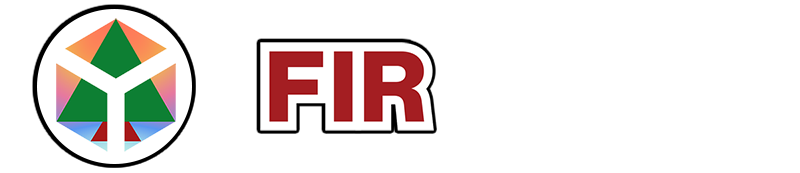
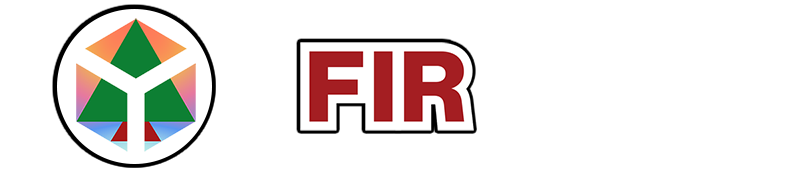
readme additions, image centering

Changed region(s): [[0.0312, 0.0, 0.2812, 0.9827], [0.3125, 0.2023, 0.5938, 0.7803]]

diff --git a/readme.md b/readme.md
@@ -1,11 +1,12 @@
 
-![FIR](https://i.imgur.com/Ef5zbt6.png)
+![FIR](img/banner.png)
 
 ---
 
 * [Introduction](#introduction)
 * [Getting started](#getting-started)
 * [Examples](#examples)
+* [Acknowledgements](#acknowledgements)
 
 <a name="introduction"></a>
 # Introduction
@@ -18,7 +19,7 @@ The Haskell type system helps in verifying programs at compile time, especially 
 <a name="getting-started"></a>
 # Getting started
 
-See [getting started](getting_started.md) for help on getting started, including:
+FIR requires GHC >= 8.6. See [getting started](getting_started.md) for help on getting started, including:
   * installation instructions,
   * a simple vertex shader example,
   * how to compile and debug shaders, using built-in functionality as well as SPIR-V tools.
@@ -28,7 +29,22 @@ The haddock documentation is also worth perusing for specialised in-depth explan
 <a name="examples"></a>
 # Examples
 
-![FullPipeline](img/full_pipeline_small.png) ![Compute](img/compute_small.png) ![Texture](img/texture_small.png) ![Offscreen](img/offscreen_small.png) ![Bezier](img/bezier_small.png)
+<div align="center">
+![FullPipeline](img/full_pipeline_small.png) ![Compute](img/compute_small.png) ![Texture](img/texture_small.png) ![JuliaSet](img/julia_small.png) ![Offscreen](img/offscreen_small.png) ![Bezier](img/bezier_small.png)
+</div>
 
 Some simple examples are included in the **fir-examples** subdirectory.
 See the [examples readme](fir-examples/readme.md) for installation instructions and further information.
+
+<a name="acknowledgements"></a>
+# Acknowledgements
+
+I extend my thanks to:
+* **Baldur Blöndal**, for helping me get started with this project, indulging my silly questions, and pointing me to the paper [*Combining Deep and Shallow Embedding for EDSL*](http://www.cse.chalmers.se/~josefs/publications/TFP12.pdf) by Josef Svenningsson and Emil Axelsson, which was used in the design of the AST.
+* **Callan McGill**, for encouraging me, spending long hours helping to debug the library (and getting it working on Linux), and generally keeping me sane.
+* **Oliver Charles**, for inspiring me to take on this project by streaming his efforts at [porting Quake 3 to Haskell using Vulkan](https://github.com/ocharles/zero-to-quake-3). This was invaluable in helping me get started with using Vulkan in Haskell.
+* **Artem Chirkin**, for his well-designed [vulkan-api](https://github.com/achirkin/vulkan) library.
+* **Schell Scivally**, for patiently explaining his [ixshader library](https://hackage.haskell.org/package/ixshader).
+* **Conor McBride**, whose paper [*Kleisli arrows of outrageous fortune*](https://personal.cis.strath.ac.uk/conor.mcbride/Kleisli.pdf) forms the basis of the implementation of indexed monads which enabled the approach taken in FIR.
+* **The GHC developers**, for their tireless work on improving Haskell, tremendously helpful advice, and for continually keeping me excited in the future of programming.
+* **Epic Games**, for giving me a huge boost by supporting me through their [MegaGrants program](https://www.unrealengine.com/megagrants).

diff --git a/getting_started.md b/getting_started.md
@@ -29,7 +29,7 @@ Refer to the examples page for further information about the examples, including
 <a name="simple-shader"></a>
 ## Writing a simple shader
 To write a shader using FIR, begin by importing the module `FIR`.
-Additional functionality is provided by the modules `FIR.Linear` (vector and matrices),
+Additional functionality is provided by the modules `FIR.Linear` (vectors and matrices),
 `FIR.Quaternion` (quaternions) and `FIR.Labels` (optional imperative-like syntax using *OverloadedLabels*).
 
 The important types are:
@@ -123,6 +123,7 @@ Bind
        └╴%1
 ```
 
+The AST pretty-printing is performed using the [tree-view](http://hackage.haskell.org/package/tree-view) package.
 
 <a name="inlining"></a>
 ## Controlling inlining
@@ -179,10 +180,14 @@ Khronos provides many useful tools to deal with SPIR-V, which are included in th
   - `spirv-dis sourceProg.spv -o sourceProg.spv-asm` to create an editable disassembly.
 * spirv-as: re-assemble SPIR-V disassembly:
   - `spirv-as dissassembly.spv-asm -o reassembled.spv`.
-* spirv-cfg: create a control flow graph, output as a DOT graph:
-  - `spirv-cfg sourceProv.spv -o sourceProgCFG.dot` to create the DOT graph,
-  - `dot -Tpdf sourceProgCFG.dot -o sourceProgCFG.pdf` to render the graph into a PDF (requires GraphViz `dot` executable).
 * spirv-opt: optimise a SPIR-V file:
   - `spirv-opt sourceProg.spv -O -o sourceProg_opt.spv` to optimise for performance,
   - `spirv-opt sourceProg.spv -Os -o sourceProg_opt.spv` to optimise size of SPIR-V binary.
 * spirv-cross: cross-compile a SPIR-V file to another shading language (GLSL/HLSL/Metal).
+* spirv-cfg: create a control flow graph, output as a DOT graph:
+  - `spirv-cfg sourceProv.spv -o sourceProgCFG.dot` to create the DOT graph,
+  - `dot -Tpdf sourceProgCFG.dot -o sourceProgCFG.pdf` to render the graph into a PDF (requires GraphViz `dot` executable).
+
+<div align="center">
+![Control flow graph of compute shader logo example](img/compute_cfg.png)
+</div>

diff --git a/fir-examples/readme.md b/fir-examples/readme.md
@@ -6,6 +6,7 @@
   - [Full graphics pipeline](#fullpipeline)
   - [Compute shader: FIR logo](#compute)
   - [Texture sampling](#texture)
+  - [Julia set](#julia)
   - [Offscreen rendering](#offscreen)
   - [Bézier curves](#bezier)
 
@@ -28,31 +29,49 @@ where *Example* is any one of the [examples](#overview).
 
 <a name="fullpipeline"></a>
 ### Full graphics pipeline
-![FullPipeline](../img/fullpipeline.png)
+<div align="center">
+![FullPipeline](../img/full_pipeline.png)
+</div>
 
 A graphics pipeline containing all shader stages.
 
 <a name="compute"></a>
 ### Compute shader: FIR logo
+<div align="center">
 ![Compute](../img/compute.png)
+</div>
 
 Rendering the FIR logo using simple ray tracing in a compute shader.
 
 <a name="texture"></a>
 ### Texture sampling
+<div align="center">
 ![Texture](../img/texture.png)
+</div>
 
 Demonstrates how to sample a texture.
 
+<a name="julia"></a>
+### Julia set
+<div align="center">
+![JuliaSet](../img/julia.png)
+</div>
+
+Interactive Julia set rendering, computed within a fragment shader.
+
 <a name="offscreen"></a>
 ### Offscreen rendering
+<div align="center">
 ![Offscreen](../img/offscreen.png)
+</div>
 
 Offscreen rendering of a single frame.
 
 <a name="bezier"></a>
 ### Bézier curves
+<div align="center">
 ![Bezier](../img/bezier.png)
+</div>
 
 Work in progress: rendering Bézier curves using tessellation and geometry shaders.
 Currently computes signed distance to the outline. Still requires a second pass in a compute shader to fill in the outline.
